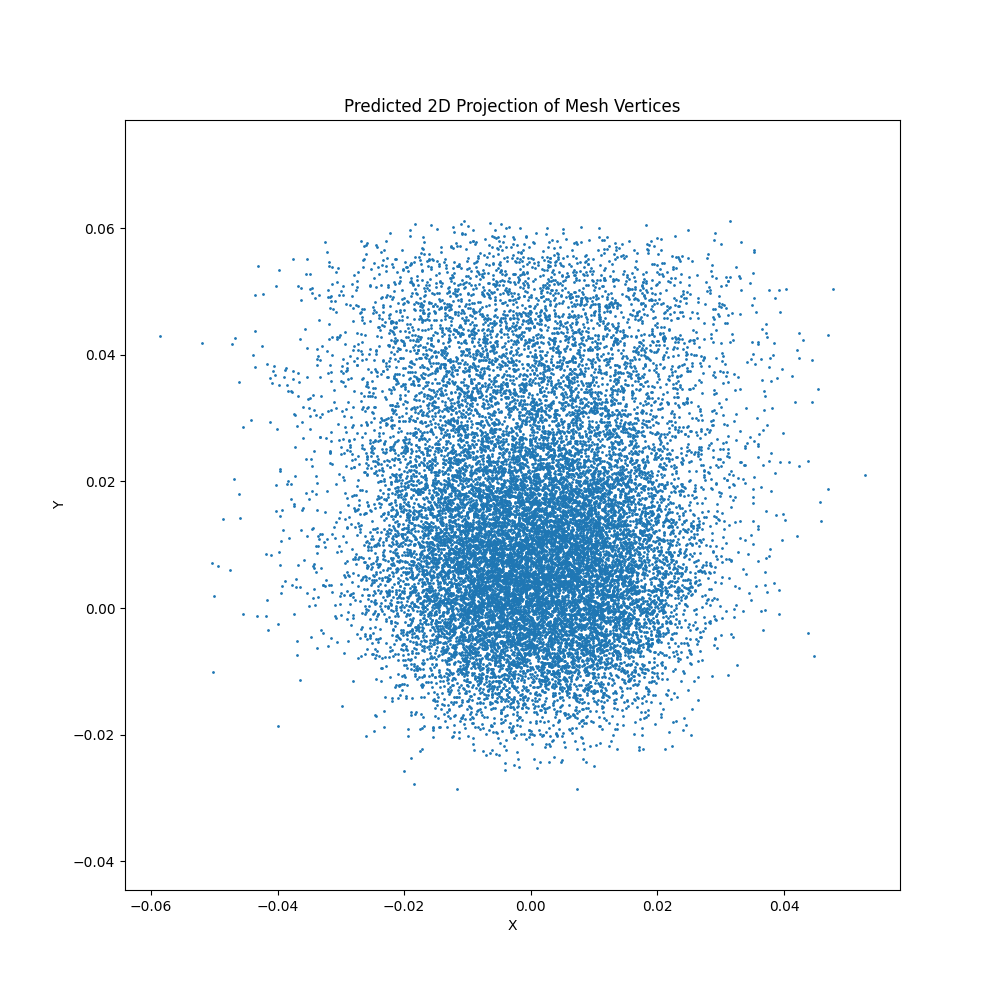
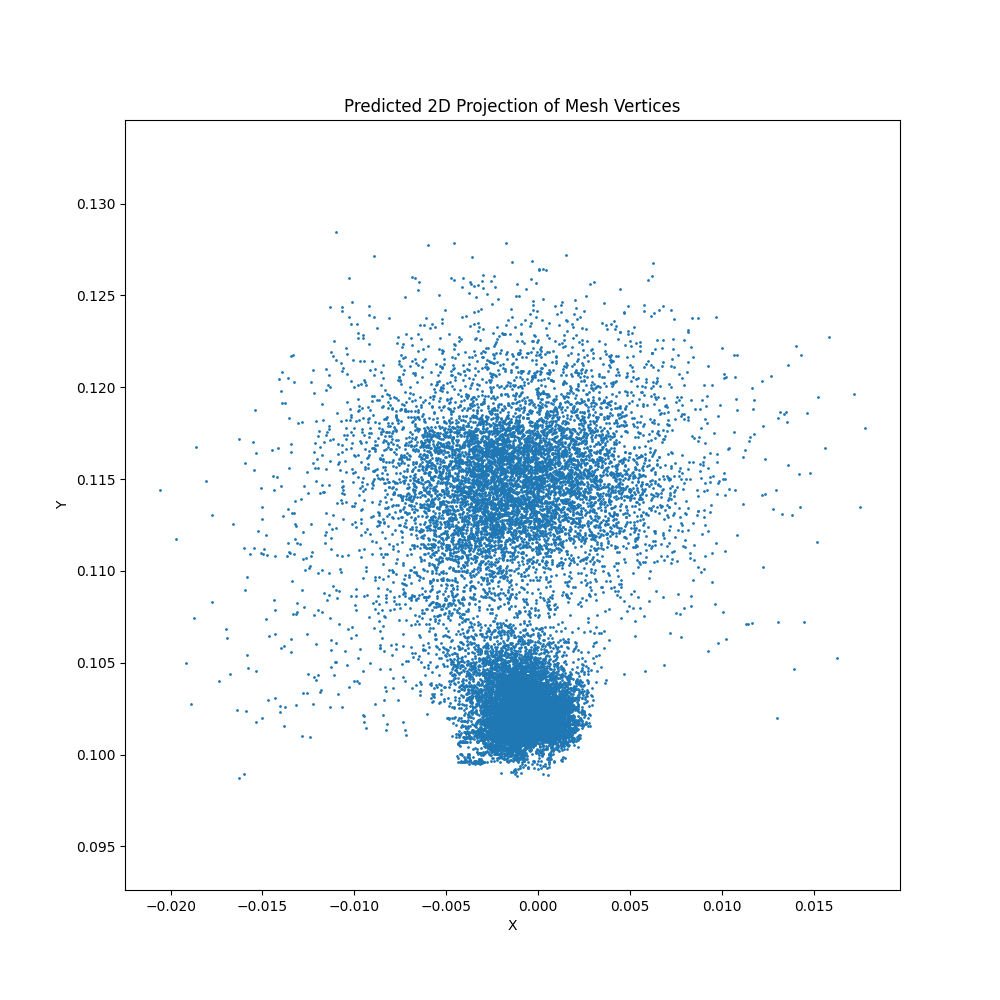
refining + GCN

diff --git a/model_learning_projections_v2.py b/model_learning_projections_v2.py
@@ -16,6 +16,7 @@ import torch.nn.functional as F
 import torch.optim as optim
 import cv2
 import json
+import torch_geometric
 
 
 class MeshDataset(Dataset):
@@ -42,18 +43,20 @@ class MeshDataset(Dataset):
         mesh = trimesh.load(mesh_path)
         vertices = np.array(mesh.vertices, dtype=np.float32)
 
+        
         # Normalize vertices to range [-1, 1]
         vertices_min = vertices.min(axis=0)
         vertices_max = vertices.max(axis=0)
         vertices = 2 * (vertices - vertices_min) / (vertices_max - vertices_min) - 1
 
-        # Pad or truncate vertices to ensure consistent tensor size
+        # Convert vertices to tensor
+        vertices = torch.tensor(vertices, dtype=torch.float32)
+
+        # Pad or truncate vertices
         if vertices.shape[0] > self.max_vertices:
             vertices = vertices[:self.max_vertices]
         else:
-            vertices = np.pad(vertices, ((0, self.max_vertices - vertices.shape[0]), (0, 0)), 'constant')
-        
-        vertices = torch.tensor(vertices)
+            vertices = F.pad(vertices, (0, 0, 0, self.max_vertices - vertices.shape[0]))
         
         # Load x and y coordinates from JSON file
         with open(proj_path, 'r') as f:
@@ -66,15 +69,14 @@ class MeshDataset(Dataset):
         y_min, y_max = y.min(), y.max()
         x = 2 * (x - x_min) / (x_max - x_min) - 1
         y = 2 * (y - y_min) / (y_max - y_min) - 1 
-        # Convert x and y to a single tensor and pad/truncate to ensure consistent size
-        xy = np.stack((x, y), axis=1)
+
+        # Convert x and y to a single tensor
+        xy = torch.tensor(np.stack((x, y), axis=1), dtype=torch.float32) 
         if xy.shape[0] > self.max_points:
             xy = xy[:self.max_points]
         else:
-            xy = np.pad(xy, ((0, self.max_points - xy.shape[0]), (0, 0)), 'constant')
+            xy = F.pad(xy, (0, 0, 0, self.max_points - xy.shape[0])) 
         
-        xy = torch.tensor(xy, dtype=torch.float32)
-
         return vertices, xy
 
 
@@ -132,7 +134,7 @@ plt.title('2D Projection of Image Vertices')
 plt.xlabel('X')
 plt.ylabel('Y')
 plt.axis('equal')
-plt.show()
+#plt.show()
 
 
 # In[25]:
@@ -172,36 +174,58 @@ import torch.nn.functional as F
 import torch.optim as optim
 import matplotlib.pyplot as plt
 
-class MeshToImageNN(nn.Module):
+class MeshGNN(torch.nn.Module):
     def __init__(self, max_vertices=17664, max_points=20000):
-        super(MeshToImageNN, self).__init__()
+        super(MeshGNN, self).__init__()
         self.max_vertices = max_vertices
         self.max_points = max_points
-        self.fc1 = nn.Linear(max_vertices * 3, 4096)
-        self.fc2 = nn.Linear(4096, 1024)
-        self.fc3 = nn.Linear(1024, max_points * 2)
         
+        self.conv1 = nn.Conv1d(3, 32, kernel_size=1)
+        self.conv2 = nn.Conv1d(32, 64, kernel_size=1)
+        self.conv3 = nn.Conv1d(64, 128, kernel_size=1)
+ 
+        self.fc1 = nn.Linear(128*max_vertices, 512)
+        self.fc2 = nn.Linear(512, max_points * 2)
+    
     def forward(self, x):
-        x = x.view(-1, self.max_vertices * 3)
+        x = x.transpose(1, 2)  # (batch_size, 3, max_vertices)
+        
+        x = F.relu(self.conv1(x))
+        x = F.relu(self.conv2(x))
+        x = F.relu(self.conv3(x))
+ 
+        x = x.view(x.size(0),-1)
         x = F.relu(self.fc1(x))
-        x = F.relu(self.fc2(x))
-        x = self.fc3(x)
+        x = self.fc2(x)
         x = x.view(-1, self.max_points, 2)
         return x
 
+torch.cuda.empty_cache()
 device = torch.device("cuda" if torch.cuda.is_available() else "cpu")
-model = MeshToImageNN().to(device)
+model = MeshGNN().to(device)
 
 if torch.cuda.device_count() > 1:
     model = nn.DataParallel(model)
     print("Using DataParallel")
 
+import chamferdist
+
+class ChamferLoss(nn.Module):
+    def __init__(self):
+        super(ChamferLoss, self).__init__()
+        self.chamfer_dist = chamferdist.ChamferDistance()
+
+    def forward(self, pred, target):
+        dist1, dist2 = self.chamfer_dist(pred, target)
+        loss = (torch.mean(dist1) + torch.mean(dist2)) / 2.0
+        return loss
+
 # Loss and optimizer
-criterion = nn.MSELoss()
+criterion = ChamferLoss()
 optimizer = optim.Adam(model.parameters(), lr=0.001)
 
 # Training loop
-num_epochs = 50
+num_epochs = 10
 for epoch in range(num_epochs):
     print(f'Starting epoch {epoch + 1}')
     epoch_loss=0
@@ -224,14 +248,14 @@ for epoch in range(num_epochs):
 print('Training complete.')
 
 # Save the model
-torch.save(model.state_dict(), 'mesh_to_image_model.pth')
+#torch.save(model.state_dict(), 'mesh_to_image_model.pth')
 
 
 # In[32]:
 
 
 # Load the trained model for inference
-model = MeshToImageNN().to(device)
+model = MeshGNN().to(device)
 state_dict = torch.load('mesh_to_image_model.pth')
 if 'module.' in list(state_dict.keys())[0]:
     from collections import OrderedDict
@@ -253,6 +277,9 @@ vertices_min = vertices.min(axis=0)
 vertices_max = vertices.max(axis=0)
 vertices = 2 * (vertices - vertices_min) / (vertices_max - vertices_min) - 1
 
+# Convert vertices to tensor
+vertices = torch.tensor(vertices, dtype=torch.float32)
+
 # Pad or truncate vertices to ensure consistent tensor size
 max_vertices = 17664
 if vertices.shape[0] > max_vertices:
@@ -260,7 +287,8 @@ if vertices.shape[0] > max_vertices:
 else:
     vertices = np.pad(vertices, ((0, max_vertices - vertices.shape[0]), (0, 0)), 'constant')
 
-vertices = torch.tensor(vertices).unsqueeze(0).to(device)  # Add batch dimension
+# Ensure the tensor has the correct shape (batch_size, max_vertices, 3)
+vertices = torch.tensor(vertices).unsqueeze(0).to(device)
 
 # Run inference
 with torch.no_grad():
@@ -270,12 +298,6 @@ with torch.no_grad():
 x_pred = predicted_xy[:, 0]
 y_pred = predicted_xy[:, 1]
 
-x_min, x_max = x_pred.min(), x_pred.max()
-y_min, y_max = y_pred.min(), y_pred.max()
-
-x_pred = (x_pred + 1) / 2 * (x_max - x_min) + x_min
-y_pred = (y_pred + 1) / 2 * (y_max - y_min) + y_min
-
 # Plot the 2D scatter plot of predicted x and y coordinates
 plt.figure(figsize=(10, 10))
 plt.scatter(x_pred, y_pred, s=1)
@@ -283,7 +305,7 @@ plt.title('Predicted 2D Projection of Mesh Vertices')
 plt.xlabel('X')
 plt.ylabel('Y')
 plt.axis('equal')
-plt.savefig('predicted_2D_projection.png')  # Save the plot
+plt.savefig('v2_predicted_2D_projection.png')  # Save the plot
 plt.show()
 
 

diff --git a/run_inference.py b/run_inference.py
@@ -78,6 +78,6 @@ plt.title('Predicted 2D Projection of Mesh Vertices')
 plt.xlabel('X')
 plt.ylabel('Y')
 plt.axis('equal')
-plt.savefig('predicted_2D_projection.png')  # Save the plot
+plt.savefig('predicted_projection_toilet_0443.png')  # Save the plot
 plt.show()
 
